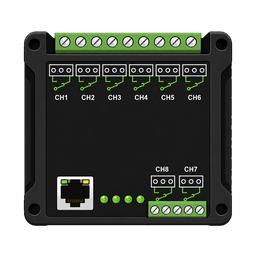
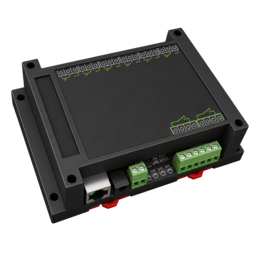
Release v1.1.6
Complete Home Assistant branding assets and remove the incorrect device firmware version display.

diff --git a/custom_components/waveshare_relay/__init__.py b/custom_components/waveshare_relay/__init__.py
@@ -8,6 +8,7 @@ import voluptuous as vol
 from homeassistant.config_entries import ConfigEntry
 from homeassistant.const import CONF_HOST, CONF_PORT, Platform
 from homeassistant.core import HomeAssistant, ServiceCall
+from homeassistant.helpers import device_registry as dr
 
 from .const import (
     DOMAIN,
@@ -48,6 +49,15 @@ SERVICE_TEST_SCHEMA = vol.Schema(
 async def async_setup_entry(hass: HomeAssistant, entry: ConfigEntry) -> bool:
     """Integration einrichten wenn Config Entry geladen wird."""
     hass.data.setdefault(DOMAIN, {})
+
+    # Releases up to 1.1.5 stored the integration version as device firmware.
+    # Clear that stale value because the relay does not report its firmware.
+    device_registry = dr.async_get(hass)
+    device = device_registry.async_get_device(
+        identifiers={(DOMAIN, entry.entry_id)}
+    )
+    if device is not None and device.sw_version is not None:
+        device_registry.async_update_device(device.id, sw_version=None)
 
     coordinator = WaveshareRelayCoordinator(
         hass=hass,

diff --git a/custom_components/waveshare_relay/sensor.py b/custom_components/waveshare_relay/sensor.py
@@ -11,7 +11,7 @@ from homeassistant.core import HomeAssistant, callback
 from homeassistant.helpers.entity_platform import AddEntitiesCallback
 from homeassistant.helpers.update_coordinator import CoordinatorEntity
 
-from .const import DOMAIN, VERSION, model_name_for_relay_count
+from .const import DOMAIN, model_name_for_relay_count
 from .coordinator import WaveshareRelayCoordinator
 
 _LOGGER = logging.getLogger(__name__)
@@ -186,6 +186,5 @@ def _device_info(entry: ConfigEntry, coordinator: WaveshareRelayCoordinator) -> 
         "name": f"Waveshare Relay ({entry.data.get('host', '?')})",
         "manufacturer": "Waveshare / ZLAN",
         "model": model_name_for_relay_count(coordinator.relay_count),
-        "sw_version": VERSION,
         "configuration_url": "https://github.com/Gr33n93/ha-waveshare-relay",
     }

diff --git a/custom_components/waveshare_relay/button.py b/custom_components/waveshare_relay/button.py
@@ -10,7 +10,7 @@ from homeassistant.core import HomeAssistant
 from homeassistant.helpers.entity_platform import AddEntitiesCallback
 from homeassistant.helpers.update_coordinator import CoordinatorEntity
 
-from .const import DOMAIN, VERSION, model_name_for_relay_count
+from .const import DOMAIN, model_name_for_relay_count
 from .coordinator import WaveshareRelayCoordinator
 
 _LOGGER = logging.getLogger(__name__)
@@ -39,7 +39,6 @@ def _device_info(entry: ConfigEntry, coordinator: WaveshareRelayCoordinator) -> 
         "name": f"Waveshare Relay ({entry.data.get('host', '?')})",
         "manufacturer": "Waveshare / ZLAN",
         "model": model_name_for_relay_count(coordinator.relay_count),
-        "sw_version": VERSION,
         "configuration_url": "https://github.com/Gr33n93/ha-waveshare-relay",
     }
 

diff --git a/custom_components/waveshare_relay/binary_sensor.py b/custom_components/waveshare_relay/binary_sensor.py
@@ -11,7 +11,7 @@ from homeassistant.core import HomeAssistant, callback
 from homeassistant.helpers.entity_platform import AddEntitiesCallback
 from homeassistant.helpers.update_coordinator import CoordinatorEntity
 
-from .const import DOMAIN, VERSION, model_name_for_relay_count
+from .const import DOMAIN, model_name_for_relay_count
 from .coordinator import WaveshareRelayCoordinator
 
 
@@ -46,7 +46,6 @@ class WaveshareConnectionSensor(
             "name": f"Waveshare Relay ({entry.data.get('host', '?')})",
             "manufacturer": "Waveshare / ZLAN",
             "model": model_name_for_relay_count(coordinator.relay_count),
-            "sw_version": VERSION,
             "configuration_url": "https://github.com/Gr33n93/ha-waveshare-relay",
         }
 

diff --git a/custom_components/waveshare_relay/switch.py b/custom_components/waveshare_relay/switch.py
@@ -11,10 +11,9 @@ from homeassistant.helpers.entity_platform import AddEntitiesCallback
 from homeassistant.helpers.update_coordinator import CoordinatorEntity
 
 from .const import (
-    DOMAIN,
-    VERSION,
     ATTR_ON_DURATION,
     ATTR_OFF_DURATION,
+    DOMAIN,
     model_name_for_relay_count,
 )
 from .coordinator import WaveshareRelayCoordinator
@@ -101,6 +100,5 @@ def _device_info(entry: ConfigEntry, coordinator: WaveshareRelayCoordinator) -> 
         "name": f"Waveshare Relay ({entry.data.get('host', '?')})",
         "manufacturer": "Waveshare / ZLAN",
         "model": model_name_for_relay_count(coordinator.relay_count),
-        "sw_version": VERSION,
         "configuration_url": "https://github.com/Gr33n93/ha-waveshare-relay",
     }

diff --git a/custom_components/waveshare_relay/const.py b/custom_components/waveshare_relay/const.py
@@ -1,7 +1,6 @@
 """Konstanten für die Waveshare PoE Relay Integration."""
 
 DOMAIN = "waveshare_relay"
-VERSION = "1.1.5"
 
 # Config keys
 CONF_HOST = "host"
